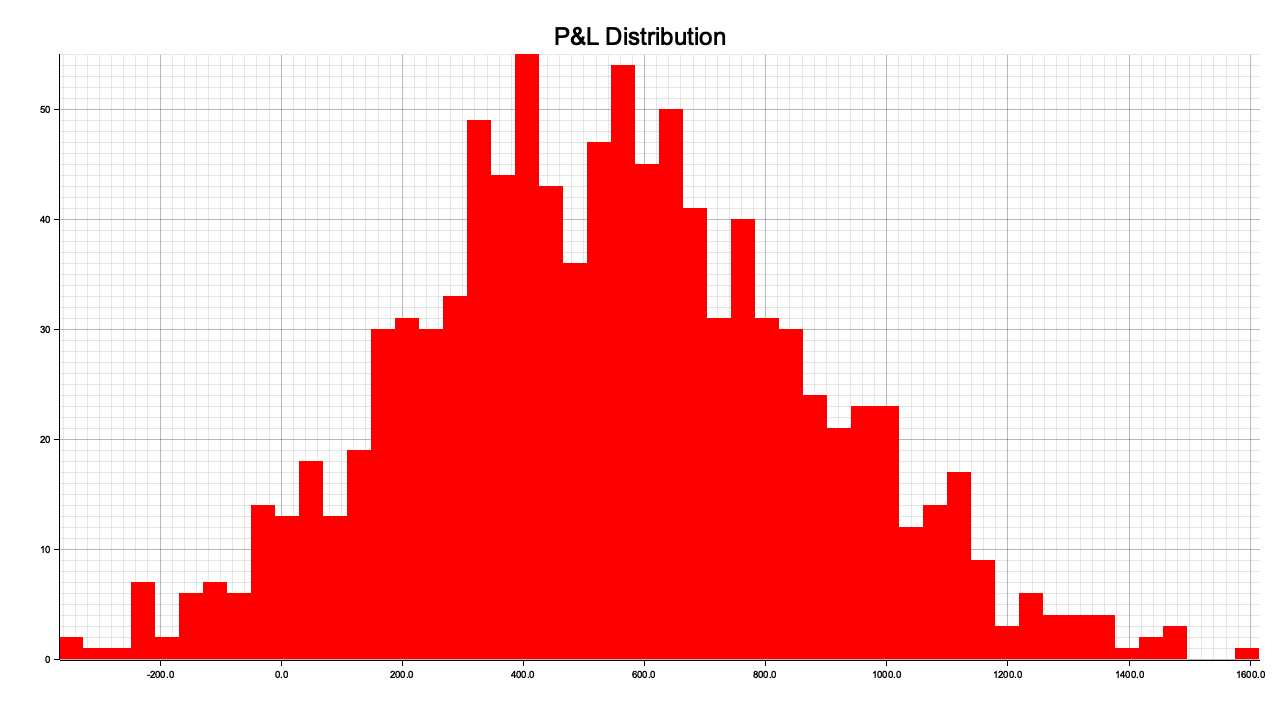
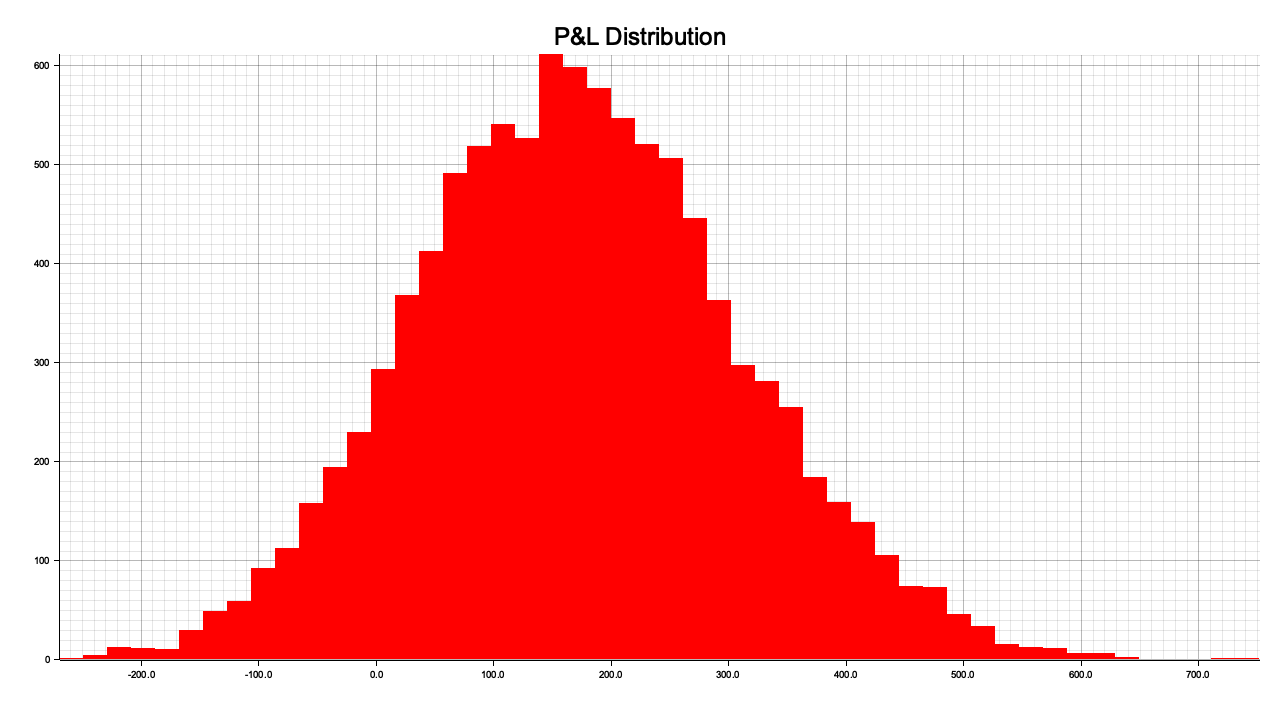
new

diff --git a/mm/src/main.rs b/mm/src/main.rs
@@ -9,15 +9,15 @@ use std::f64::consts::E;
 const S0: f64 = 100.0; // Initial stock price
 const T: f64 = 10.0;   // Terminal time
 const DT: f64 = 0.005; // Time step
-const GAMMA: f64 = 0.5; // Risk aversion parameter
+const GAMMA: f64 = 1.5; // Risk aversion parameter
 const SIGMA: f64 = 3.0; // Lower volatility of the mid-price for smoother prices
 const K: f64 = 0.1;    // Lower K to make trades more frequent
-const A: f64 = 280.0;  // Increased A to boost arrival rates
+const A: f64 = 170.0;  // Increased A to boost arrival rates
 const LAMBDA: f64 = 0.1; // Base intensity of market orders
 const MAX_INVENTORY: i32 = 1000; // Maximum allowable inventory
 
 
-const NUM_SIMULATIONS: usize = 1000; // Number of simulations to run
+const NUM_SIMULATIONS: usize = 10000; // Number of simulations to run
 const NUM_BINS: usize = 50; // Number of bins for the histogram
 
 // Agent struct
